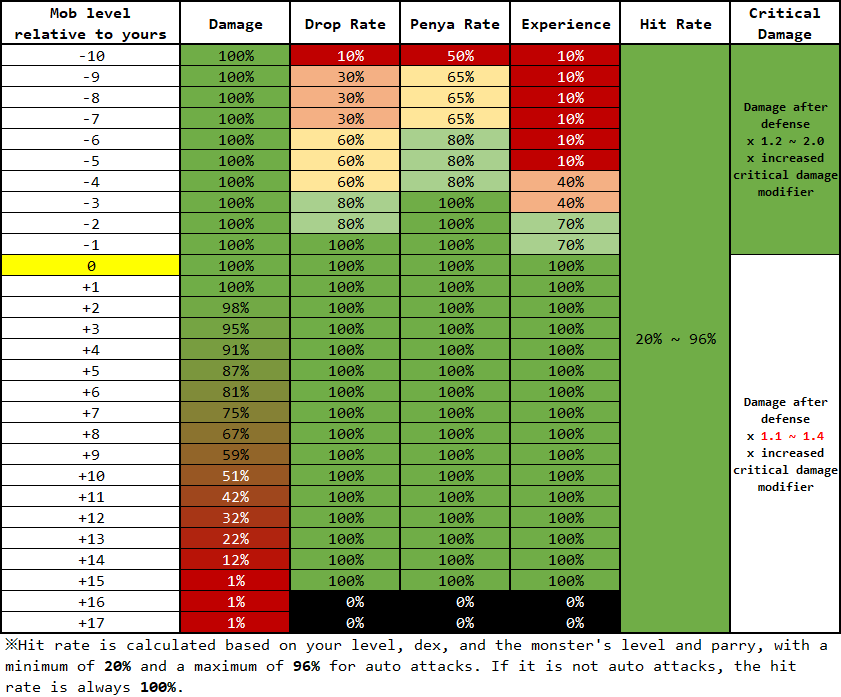
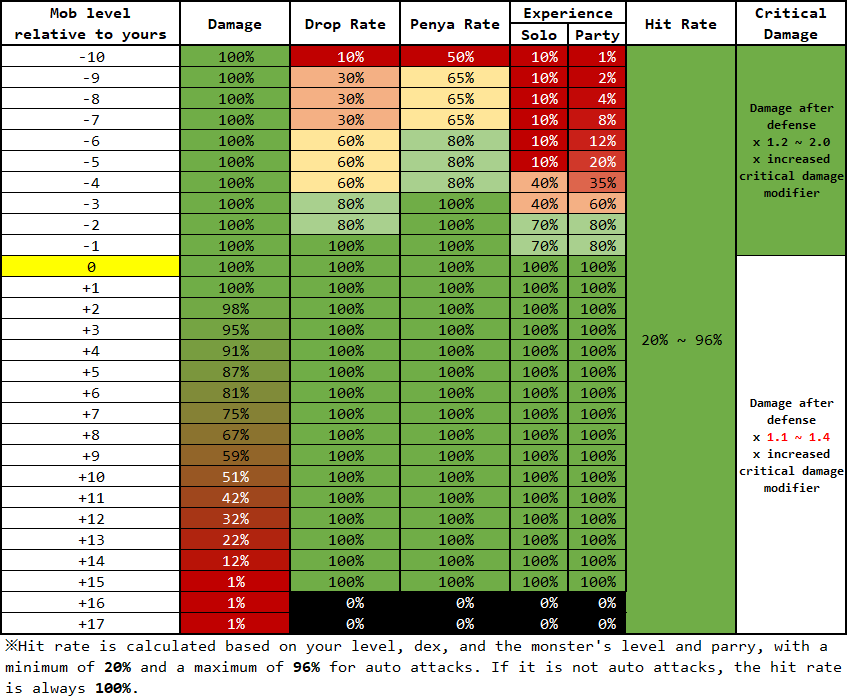
feat: update level gap

diff --git a/README.md b/README.md
@@ -673,6 +673,8 @@
 
 > source:[Flyffulator/src/flyff/flyffdamagecalculator.js](https://github.com/Frostiae/Flyffulator/blob/main/src/flyff/flyffdamagecalculator.js#L379 "Flyffulator/src/flyff/flyffdamagecalculator.js")
 
+> source:[Flyffulator/src/assets/LevelDifferencePenalties.json](https://github.com/Frostiae/Flyffulator/blob/main/src/assets/LevelDifferencePenalties.json "Flyffulator/src/assets/LevelDifferencePenalties.json")
+
 > source:[@navi2765 @Navi (discord flyff universe)](https://discord.com/channels/778915844070834186/1333187382941585468/1333187382941585468 "@navi2765 @Navi (discord flyff universe)")
 
 </details></td></tr></table>
